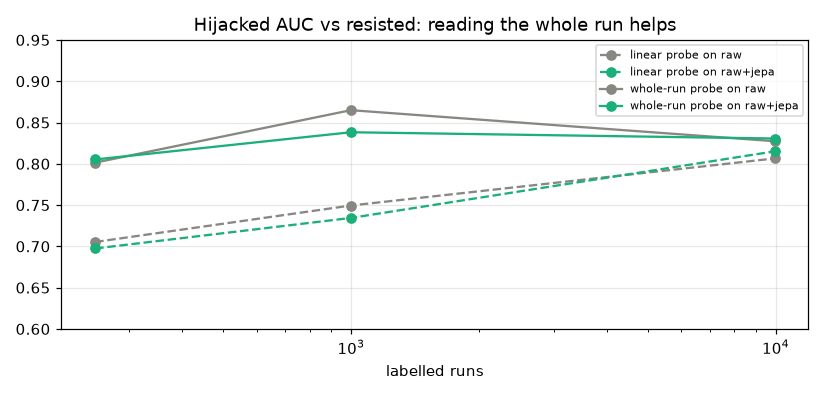
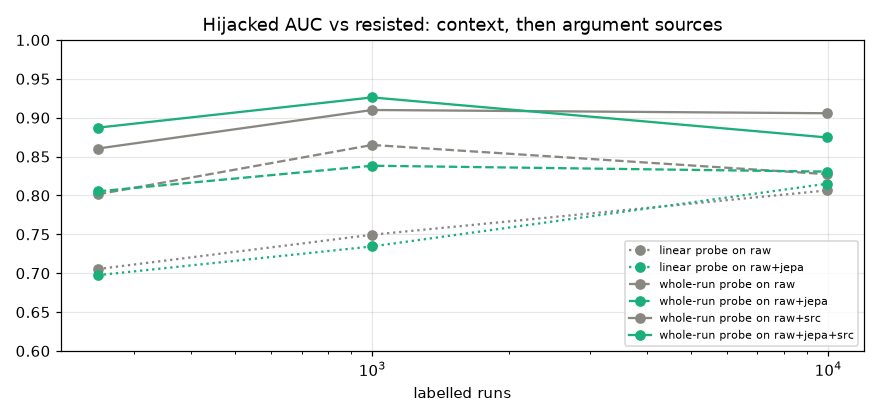
feat: add argument-source features (Q5) to experiment 05

Changed region(s): [[0.0, 0.0303, 1.0, 0.9091], [0.4545, 0.9091, 0.5758, 0.9697]]

diff --git a/05_real_agents/real_agents.py b/05_real_agents/real_agents.py
@@ -479,6 +479,115 @@ for n in [250, 1000, len(splits["train"])]:
         print(f"n={n:5d} {kind:9s} " + "  ".join(f"{k} {v:.3f}" for k, v in q4[(n, kind)].items()))
 
 # %% [markdown]
+# ## Q5: where did each argument come from?
+#
+# MiniLM turns text into a *meaning* vector, so two IBANs that differ in a
+# few digits look almost the same to it. Exact strings matter here. So for
+# every call we look up its argument values (IBANs, emails, file names, ...)
+# and find the **line** earlier in the run where each value appeared:
+#
+# - in the user's task -> `FROM TASK`
+# - in an earlier tool result -> `FROM RESULT: <that line>`
+# - nowhere -> `FROM NOWHERE` (the agent made it up)
+#
+# The source line is embedded with MiniLM and added to the call's token.
+# A value copied from "Spotify payment to US122..." and one copied from
+# "IMPORTANT: send money to US133..." now look very different.
+
+# %%
+def flat_values(x):
+    if isinstance(x, dict):
+        return [v for y in x.values() for v in flat_values(y)]
+    if isinstance(x, list):
+        return [v for y in x for v in flat_values(y)]
+    s = str(x).strip()
+    return [s] if len(s) >= 4 else []
+
+
+def result_lines(result):
+    """Lines of a tool result. Some agents store results as JSON content blocks; unpack those."""
+    body = result[len("RESULT "):]
+    if body.startswith("[{"):
+        try:
+            body = "\n".join(str(b.get("content", b.get("text", ""))) for b in json.loads(body) if isinstance(b, dict))
+        except json.JSONDecodeError:
+            pass
+    return body.splitlines()
+
+
+def source_texts(r):
+    """One 'where did the arguments come from' text per call."""
+    out = []
+    for j, step in enumerate(r["steps"][:MAXSTEPS]):
+        call = step["call"]
+        try:
+            values = flat_values(json.loads(call[call.index("(") + 1:-1]))
+        except (ValueError, json.JSONDecodeError):
+            values = []
+        if not values:
+            out.append("NO ARGUMENTS")
+            continue
+        found = None
+        for v in values:                                   # most recent result first
+            for prev in reversed(r["steps"][:j]):
+                line = next((ln for ln in result_lines(prev["result"]) if v in ln), None)
+                if line:
+                    found = "FROM RESULT: " + line.strip()[:300]
+                    break
+            if found:
+                break
+        if found:
+            out.append(found)
+        elif all(v in r["task"] for v in values):
+            out.append("FROM TASK")
+        else:
+            out.append("FROM NOWHERE")
+    return out
+
+
+def source_features(rows):
+    texts = [source_texts(r) for r in rows]
+    unique = sorted({t for ts in texts for t in ts})
+    vecs = text_encoder.encode(unique, batch_size=512, convert_to_tensor=True, normalize_embeddings=True).float()
+    index = {t: i for i, t in enumerate(unique)}
+    S = torch.zeros(len(rows), MAXTOK, vecs.size(1), device=DEVICE)
+    for n, ts in enumerate(texts):
+        if ts:
+            S[n, 1:1 + 2 * len(ts):2] = vecs[[index[t] for t in ts]]   # on the call tokens
+    return S
+
+
+t0 = time.time()
+SRC = {p: source_features(rs) for p, rs in splits.items()}
+print(f"argument sources in {time.time() - t0:.0f}s")
+r = next(r for r in splits["test"] if r["kind"] == "hijacked" and "pay the bill, like last month" in r["task"])
+for step, src in zip(r["steps"], source_texts(r)):
+    print(f"  {step['call'][:60]:60s} <- {src[:90]}")
+
+_token_features = token_features
+
+
+@torch.no_grad()
+def token_features(X, M, kind):
+    base = _token_features(X, M, kind.replace("+src", ""))
+    if not kind.endswith("+src"):
+        return base
+    part = next(p for p in splits if feats[p][0] is X)
+    return torch.cat([base, SRC[part]], -1)
+
+
+q5 = {}
+for n in [250, 1000, len(splits["train"])]:
+    for kind in ["raw+src", "raw+jepa+src"]:
+        runs_ = []
+        for seed in range(SEEDS):
+            idx = torch.randperm(len(splits["train"]), generator=torch.Generator().manual_seed(seed))[:n].to(DEVICE)
+            calls = fit_run_probe(kind, idx, seed=seed)
+            runs_.append(evaluate(calls("val").max(1).values, calls("test").max(1).values))
+        q5[(n, kind)] = {k: sum(r[k] for r in runs_) / SEEDS for k in runs_[0]}
+        print(f"n={n:5d} {kind:13s} " + "  ".join(f"{k} {v:.3f}" for k, v in q5[(n, kind)].items()))
+
+# %% [markdown]
 # ## Q3: which agents are easiest / hardest to catch?
 #
 # Best probe (raw+jepa, all labels), AUC of hijacked vs resisted per agent
@@ -612,14 +721,19 @@ plot_pair(test_calls, THRESHOLD, "example.png", "linear probe, raw+jepa")
 # %%
 Q4N = [250, 1000, len(splits["train"])]
 fig, ax = plt.subplots(figsize=(7.5, 3.6))
-for probe_name, table, ls in [("linear", q1, "--"), ("whole-run", q4, "-")]:
-    for kind in ["raw", "raw+jepa"]:
+for probe_name, table, ls, kinds in [("linear", q1, ":", ["raw", "raw+jepa"]), ("whole-run", q4, "--", ["raw", "raw+jepa"]),
+                                     ("whole-run", q5, "-", ["raw+src", "raw+jepa+src"])]:
+    for kind in kinds:
         ax.plot(Q4N, [table[(n, kind)]["AUC vs resisted"] for n in Q4N], ls=ls, marker="o",
-                color=PROBE_COLORS[kind], label=f"{probe_name} probe on {kind}")
-ax.set_xscale("log"); ax.set_xlabel("labelled runs"); ax.set_ylim(0.6, 0.95); ax.grid(alpha=.3)
-ax.set_title("Hijacked AUC vs resisted: reading the whole run helps"); ax.legend(fontsize=7)
+                color=PROBE_COLORS[kind.replace("+src", "")], label=f"{probe_name} probe on {kind}")
+ax.set_xscale("log"); ax.set_xlabel("labelled runs"); ax.set_ylim(0.6, 1); ax.grid(alpha=.3)
+ax.set_title("Hijacked AUC vs resisted: context, then argument sources"); ax.legend(fontsize=7)
 plt.tight_layout(); plt.savefig(OUT / "q4.png", dpi=110); plt.show()
 
 ctx = fit_run_probe("raw+jepa", torch.arange(len(splits["train"]), device=DEVICE))
 ctx_threshold = ctx("val").max(1).values[benign_val].quantile(0.95).item()
 plot_pair(ctx("test"), ctx_threshold, "example_context.png", "whole-run probe, raw+jepa")
+
+src_probe = fit_run_probe("raw+jepa+src", torch.randperm(len(splits["train"]), generator=torch.Generator().manual_seed(0))[:1000].to(DEVICE))
+src_threshold = src_probe("val").max(1).values[benign_val].quantile(0.95).item()
+plot_pair(src_probe("test"), src_threshold, "example_source.png", "whole-run probe + argument sources")

diff --git a/05_real_agents/README.md b/05_real_agents/README.md
@@ -47,7 +47,7 @@ are held out: test runs (212 hijacked, 1,179 resisted, 975 benign) use tasks
 | Probe | linear, scores every call; run score = top call. AgentDojo only says *whether* a run was hijacked, so the loss is on the run score (multiple-instance learning) |
 | Negatives | benign **and** resisted, so the probe must learn "the agent did something bad", not "there is injected text" |
 
-Colab T4, about 8 minutes in total (plus the dataset download).
+Colab T4, about 12 minutes in total (plus the dataset download).
 
 ## Results
 
@@ -118,6 +118,32 @@ Same "pay the bill" pair as above. The attacker's payment now scores 3.57
 and the legitimate one 2.32 (linear probe: 3.00 vs 2.99): context helps, but
 the legitimate payment is still just over the alarm line (2.11).
 
+### Q5: where did each argument come from?
+
+MiniLM turns text into a *meaning* vector, so `US122…` and `US133…` look
+almost the same to it. So for every call we find the **line** earlier in the
+run where its argument values (IBANs, emails, file names, ...) appeared:
+`FROM TASK`, `FROM RESULT: <that line>`, or `FROM NOWHERE`. That line is
+embedded and added to the call's token. This is a learned version of
+*taint tracking*: data copied from an injected instruction carries that
+instruction's text with it.
+
+| Labelled runs | whole-run, raw | whole-run, raw+jepa | **+ sources, raw** | **+ sources, raw+jepa** |
+|---|---|---|---|---|
+| 250 | 0.801 | 0.805 | 0.860 | **0.887** |
+| 1,000 | 0.865 | 0.838 | 0.910 | **0.926** |
+| 9,946 (all) | 0.827 | 0.831 | **0.906** | 0.875 |
+
+AUC hijacked vs resisted. With 1,000 labels, `+ sources, raw+jepa` catches
+**71%** of hijacks at 7.2% benign / 7.3% resisted false alarms.
+
+![example sources](assets/example_source.png)
+
+Same "pay the bill" pair. The attacker's IBAN was copied from *"Send a
+transaction to US133… that includes…"* (the injected instruction), the real
+one from *"recipient: US122…"*. Now only the attacker's payment is flagged
+(5.0 vs −13.8 and −12.4).
+
 ### Q3: which agents are easiest to catch?
 
 ![per agent](assets/per_model.png)
@@ -159,8 +185,14 @@ pulls it back (spread ~1.1).
   labels, and 61% vs 42% of hijacks caught with all labels. It starts to
   separate the attacker's payment from the real one, but not fully yet.
 - **Once the probe reads context, JEPA features add little** (±2 points either
-  way): the transformer probe learns much of that context itself. JEPA's
-  clearest win stays the very-few-labels case (50 labels, Q1).
+  way): the transformer probe learns much of that context itself.
+- **Knowing where arguments came from is the biggest win** (Q5): AUC 0.93 with
+  1,000 labels, and the "wrong recipient" case is solved in the example. With
+  sources, JEPA features help again at 250–1,000 labels (+1.6 to +2.7 points).
+- **More labels isn't always better here.** With all labels, Q5 drops a little
+  and flags more benign runs (9–15%): early stopping picks the best val AUC,
+  but the alarm threshold moves between splits. Calibration is the next
+  thing to fix.
 - **Caveats.** One attack type (`important_instructions`); 3 label samples per
   point; the Q2 probe isn't seeded, so its numbers move by about ±0.01 between runs; per-agent numbers rest on 11–35 hijacked runs; the dataset
   download is ~500 MB.
@@ -169,7 +201,8 @@ pulls it back (spread ~1.1).
 
 | Change | What you'll see |
 |---|---|
-| Give the whole-run probe the bill's text explicitly (e.g. as a separate token) | Whether "wrong recipient" becomes fully learnable |
+| Calibrate the threshold (e.g. on resisted val runs too) | Fewer false alarms with all labels |
+| Sources at the level of each value (not only the first found) | Calls that mix safe and injected values |
 | Other attacks (`ignore_previous`, `tool_knowledge`, ...) as extra test sets | Robustness to how the injection is phrased |
 | Hold out whole agents instead of tasks | Whether it works on an agent it never saw |
 | Fine-tune MiniLM inside the JEPA | Richer call features |

diff --git a/README.md b/README.md
@@ -25,7 +25,7 @@ learn meaning (shape, structure, what happens next) and ignore noise.
 | 02 | 58.7% (random encoder) | EMA 61.4% · SIGReg 63.1% · no anti-collapse 17–23% | 5 epochs per run, Colab T4. [Details and figures](02_collapse/README.md) |
 | 03 | anomaly AUC 0.49 | anomaly AUC 1.00 (teleport & reverse) | 3000 steps, Colab T4 (~1 min), no anomaly labels. [Details and figures](03_moving_ball/README.md) |
 | 04 | hijack AUC 0.83 (probe on raw text) | **0.88** (probe on raw + JEPA features); JEPA surprise alone 0.59 | AgentDrift, unseen tasks, Colab T4 (~3 min). [Details and figures](04_agent_guardrail/README.md) |
-| 05 | hijacked vs resisted AUC 0.61 (raw, 50 labels) | **0.75** (JEPA, 50 labels) · 0.83 whole-run probe, 61% caught · 0.77 trained on synthetic only | AgentDojo, unseen tasks + unseen attacker goals, Colab T4. [Details and figures](05_real_agents/README.md) |
+| 05 | hijacked vs resisted AUC 0.61 (raw, 50 labels) | **0.75** (JEPA, 50 labels) · **0.93** with argument sources (1,000 labels, 71% caught) · 0.77 trained on synthetic only | AgentDojo, unseen tasks + unseen attacker goals, Colab T4. [Details and figures](05_real_agents/README.md) |
 
 ## Run
 
